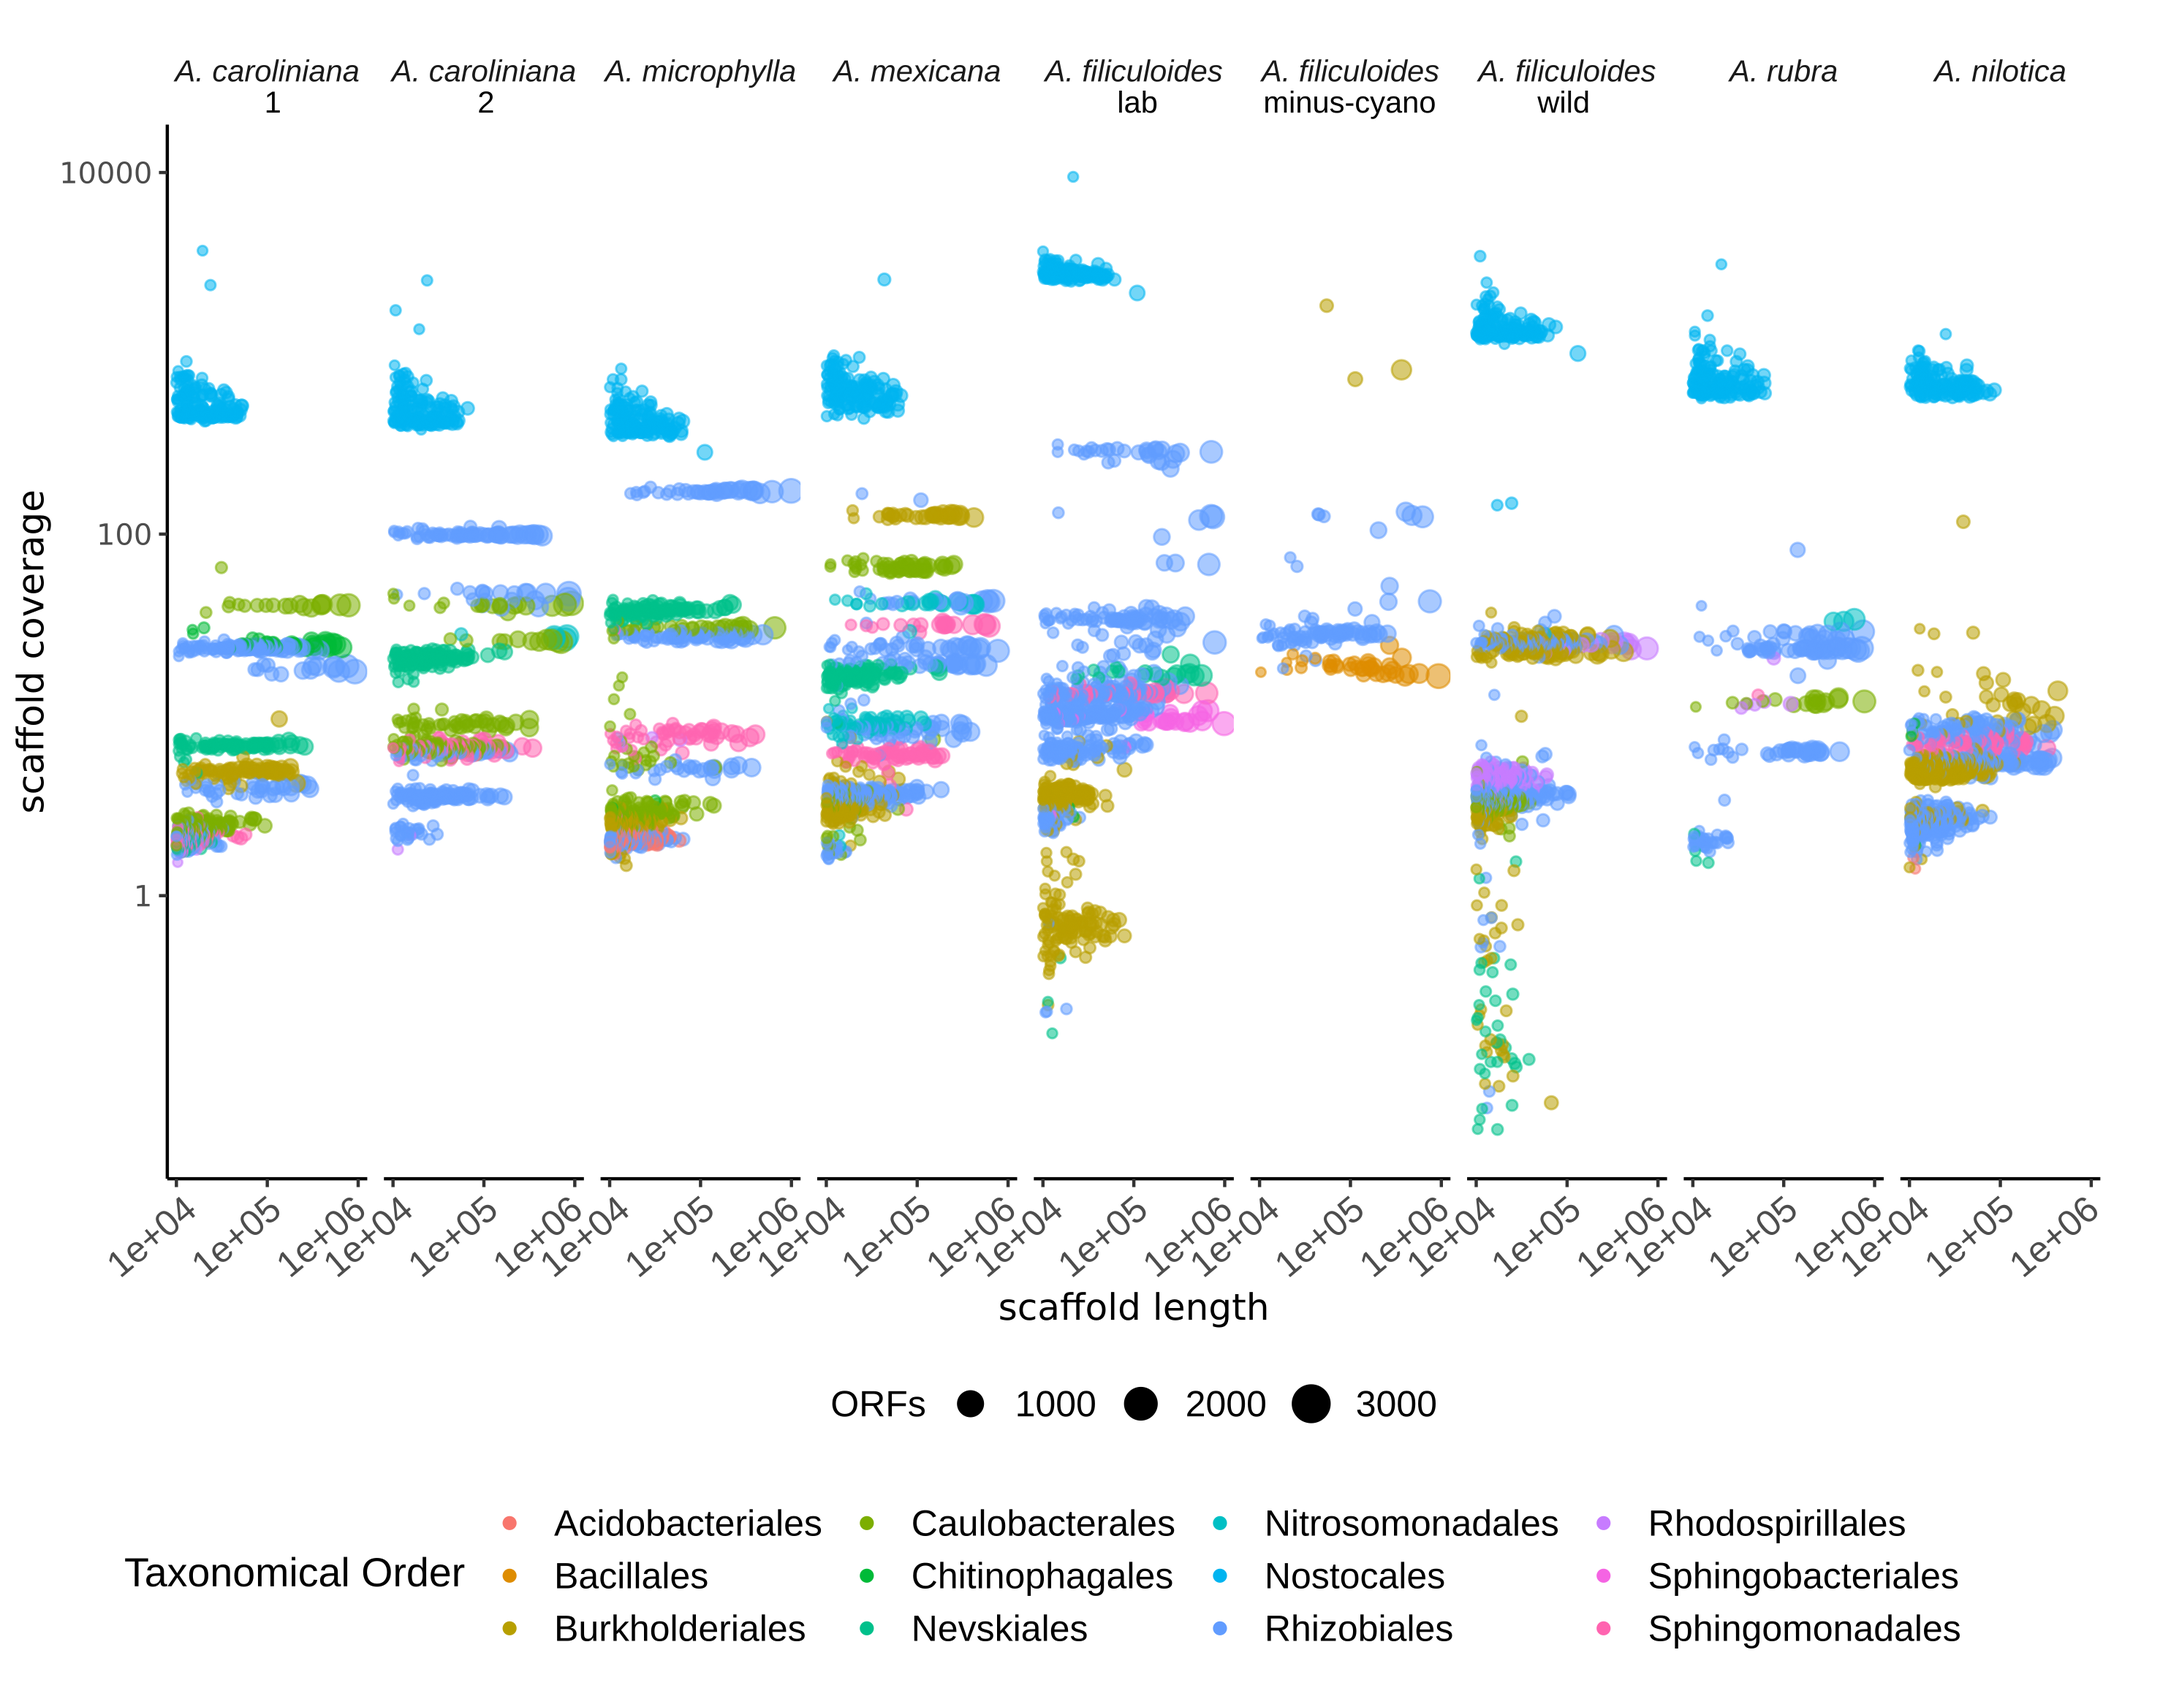
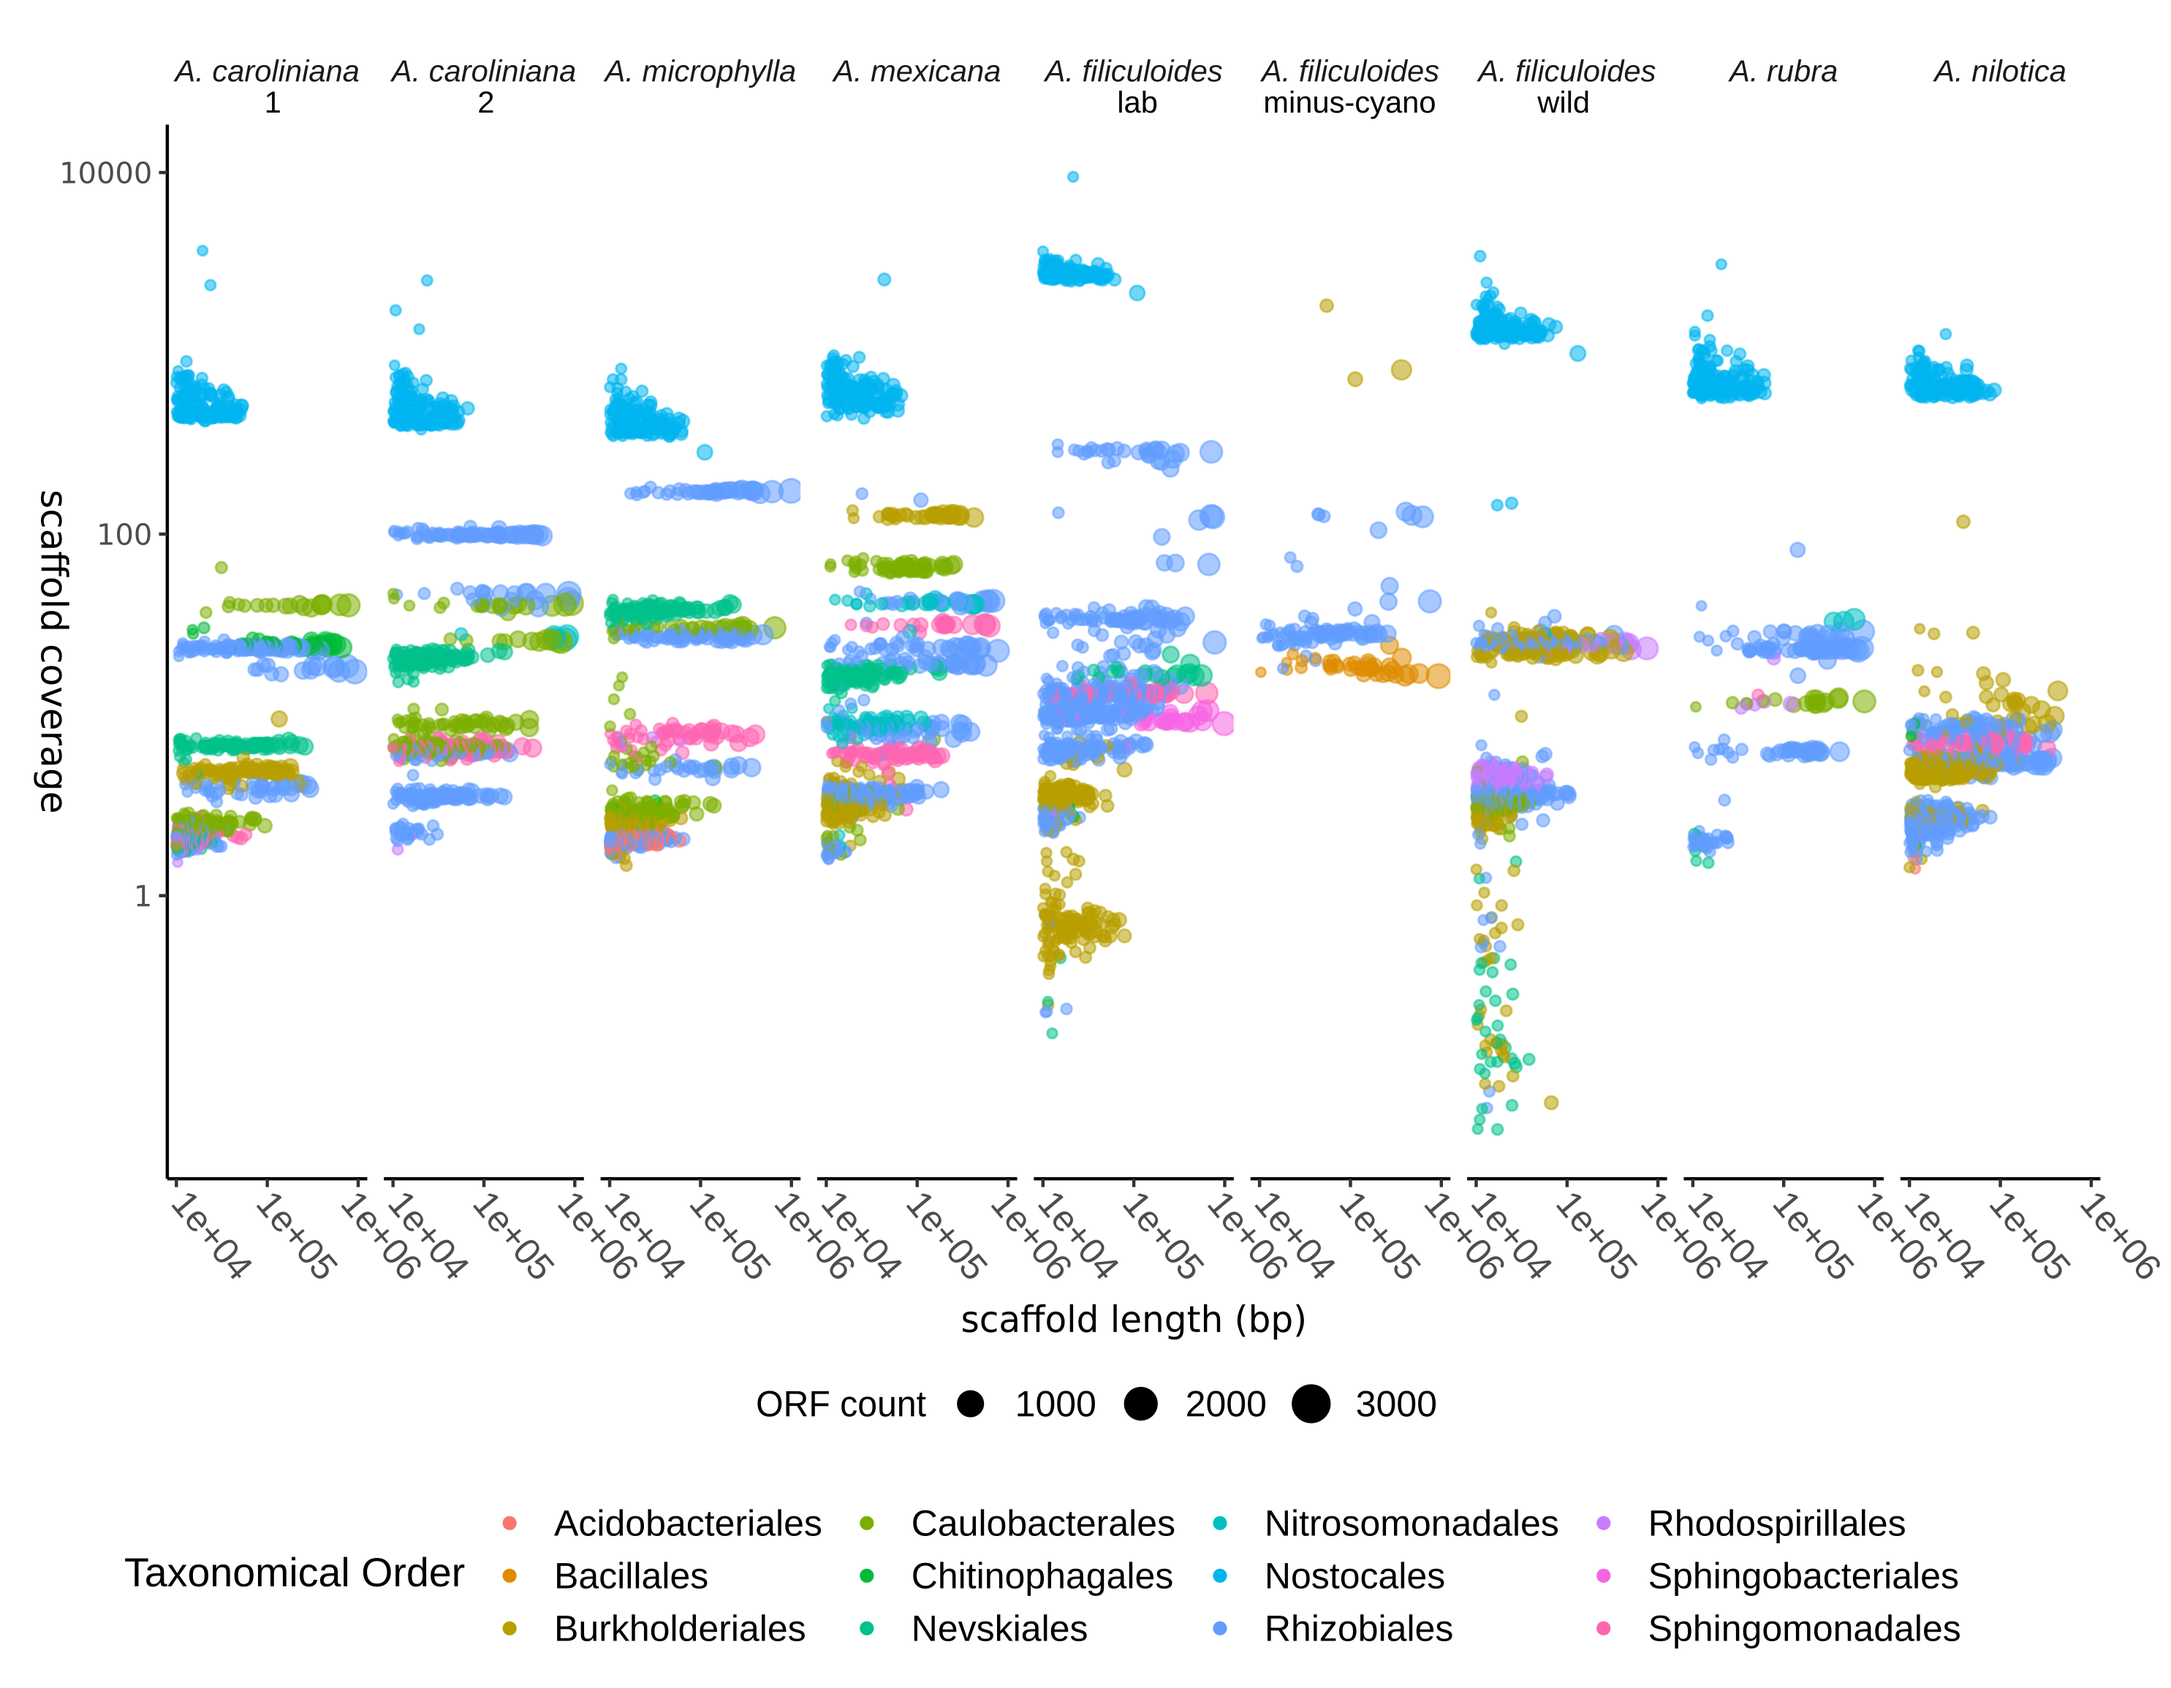
fix figure file name confusion

Changed region(s): [[0.062, 0.7169, 0.9912, 0.8104], [0.0, 0.2805, 0.031, 0.4987], [0.3407, 0.8104, 0.4337, 0.8416]]

diff --git a/source/13_chapter_3_hidden-treasures.md b/source/13_chapter_3_hidden-treasures.md
@@ -267,7 +267,7 @@ Plotting the scaffolds of all assemblies by these two characteristics allows one
 \begin{figure}
 \hypertarget{fig:fig3_Azolla_genus_metagenome_order}{%
   \centering
-  \includegraphics{source/figures/fig3_Azolla_genus_metagenome_order.png}
+  \includegraphics{source/figures/fig3_Azolla_genus_metagenome_order.pdf}
   \caption{Metagenome assemblies of 6 species of the fern genus Azolla (horizontal panels).
     Sequencing data was derived from three public projects \cref{fig:fig3_data_overview}.
     Sequencing reads were rid of host plant DNA reads and assembled with SPAdes in metagenome mode \cref{fig:fig3_filtering_and_assembly}-A.
